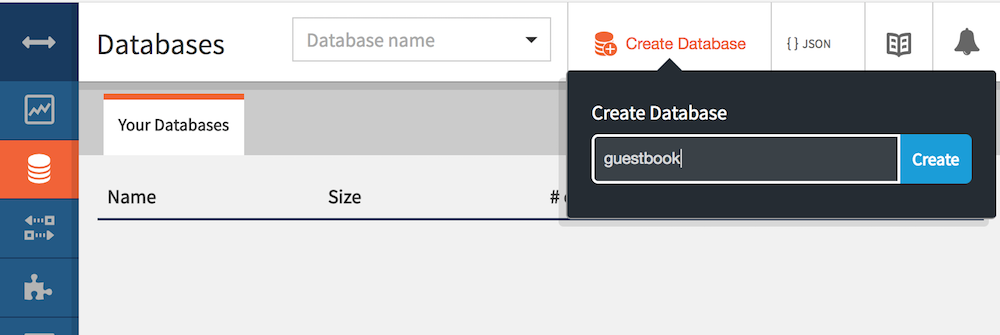
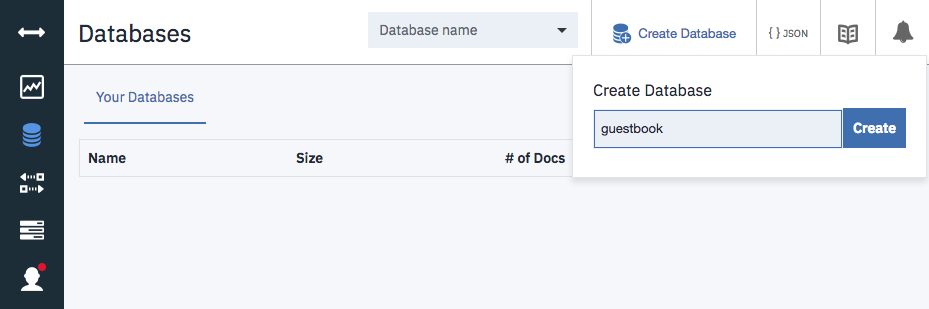
update steps to deal with Cloudant being IAM compatible now

diff --git a/serverless-api-webapp.md b/serverless-api-webapp.md
@@ -62,14 +62,17 @@ This guide uses GitHub Pages to host the static website. Make sure you have a pu
 
 Let's start by creating a {{site.data.keyword.cloudant_short_notm}}. {{site.data.keyword.cloudant_short_notm}} is a fully managed data layer designed for modern web and mobile applications that leverages a flexible JSON schema. {{site.data.keyword.cloudant_short_notm}} is built upon and compatible with Apache CouchDB and accessible through a secure HTTPS API, which scales as your application grows.
 
-![](images/solution8/Catalog_Cloudant.png)
-
-1. In the Catalog, under **Data & Analytics**, select **{{site.data.keyword.cloudant_short_notm}}**.
-2. Set the service name to **guestbook-db** and click **Create**.
-3. Under **Service Credentials**, create **New credential** and click **Add**.
-4. Click on **Manage** on the left and then **Launch** the {{site.data.keyword.cloudant_short_notm}} service console.
+1. In the Catalog, select **{{site.data.keyword.cloudant_short_notm}}**.
+2. Set the service name to **guestbook-db**, select **Use both legacy credentials and IAM** as authentication methods and click **Create**.
+4. Click on **Manage** on the left and then **Launch** the {{site.data.keyword.cloudant_short_notm}} service dashboard.
 5. Create a database named **guestbook**.
    ![](images/solution8/Create_Database.png)
+1. Under **Connections**,
+  1. Click **Create connection**
+  1. Select a Cloud Foundry organization and space where to create the serverless actions
+  1. Hover on the space and click **CONNECT**
+1. Go the [console](https://console.bluemix.net/dashboard/apps), select the service alias in the *Cloud Foundry Services* section
+3. Under **Service Credentials**, create **New credential** and click **Add**.
 
 ## Create serverless actions
 
@@ -83,12 +86,12 @@ You will create a **sequence** which is a chain of actions where output of one a
    * Create a document to be persisted.
    * Store the document in the {{site.data.keyword.cloudant_short_notm}} database.
 
-Start by creating the first action, adding the action to a sequence and then adding the second action to the sequence.
+Start by creating the first action:
 
 1. Switch to **Functions** https://console.bluemix.net/openwhisk.
 2. On the left pane, click on **Actions** and then **Create**.
 3. **Create Action** with name `prepare-entry-for-save` and select **Node.js 6** as the Runtime.
-4. Replace the existing code with the code snippet below and **Save**
+4. Replace the existing code with the code snippet below:
    ```js
    /**
     * Prepare the guestbook entry to be persisted
@@ -109,13 +112,20 @@ Start by creating the first action, adding the action to a sequence and then add
    }
    ```
    {: codeblock}
-5. Click on **Enclosing Sequences** and then **Add To Sequence**.
-6. For Action name, enter `save-guestbook-entry-sequence` and then click **Create and Add**.
-7. Click on **save-guestbook-entry-sequence** and then click **Add**.
-8. Select **Use Public**, **Cloudant** and then choose **create-document** under **Actions**
-9. Create **New Binding** and set name to `binding-for-guestbook`.
-10. Select the **guestbook-db** {{site.data.keyword.cloudant_short_notm}} instance and the **guestbook** database and **Add** and then **Save**.
-11. To test it, click on **Change Input** and enter the JSON below
+1. **Save**
+
+Then add the action to a sequence:
+
+1. Click on **Enclosing Sequences** and then **Add To Sequence**.
+1. For the sequence name, enter `save-guestbook-entry-sequence` and then click **Create and Add**.
+
+Finally add a second action to the sequence:
+
+1. Click on **save-guestbook-entry-sequence** and then click **Add**.
+1. Select **Use Public**, **Cloudant** and then choose **create-document** under **Actions**
+1. Create **New Binding** and set name to `binding-for-guestbook`.
+1. Select the **guestbook-db** {{site.data.keyword.cloudant_short_notm}} instance and the **guestbook** database and **Add** and then **Save**.
+1. To test it, click on **Change Input** and enter the JSON below
     ```json
     {
       "name": "John Smith",
@@ -124,7 +134,7 @@ Start by creating the first action, adding the action to a sequence and then add
     }
     ```
     {: codeblock}
-12. **Apply** and then **Invoke**.
+1. **Apply** and then **Invoke**.
     ![](images/solution8/Save_Entry_Invoke.png)
 
 ### Sequence of actions to retrieve entries
@@ -145,32 +155,40 @@ The second sequence is used to retrieve the existing guestbook entries. This seq
    }
    ```
    {: codeblock}
-3. Click on **Enclosing Sequences**, **Add to Sequence** and **Create New**
-4. Enter `read-guestbook-entries-sequence` for the **Action Name** and click **Create and Add**.
-5. Click on **read-guestbook-entries-sequence** sequence and then click **Add** to create and add the second action to get documents from Cloudant.
-6. Under **Use Public**, choose **{{site.data.keyword.cloudant_short_notm}}** and then **list-documents**
-7. Choose **binding-for-guestbook** and **Add** to create and add this public action to your sequence.
-8. Click **Add** again to create and add the third action which will format the documents from {{site.data.keyword.cloudant_short_notm}}.
-9. Under **Create New** enter `format-entries` for name and then click **Create and Add**.
-10. Click on **format-entries** and replace the code with below and **Save**
-  ```js
-  const md5 = require('spark-md5');
+1. **Save**
 
-  function main(params) {
-    return {
-      entries: params.rows.map((row) => { return {
-        name: row.doc.name,
-        email: row.doc.email,
-        comment: row.doc.comment,
-        createdAt: row.doc.createdAt,
-        icon: (row.doc.email ? `https://secure.gravatar.com/avatar/${md5.hash(row.doc.email.trim().toLowerCase())}?s=64` : null)
-      }})
-    };
-  }
-  ```
-  {: codeblock}
-11. Choose the sequence by clicking on **Actions** and then **read-guestbook-entries-sequence**.
-12. Click on **Save** and then **Invoke**. The output should look like the following:
+Add the action to a sequence:
+
+1. Click on **Enclosing Sequences**, **Add to Sequence** and **Create New**
+1. Enter `read-guestbook-entries-sequence` for the **Action Name** and click **Create and Add**.
+
+Complete the sequence:
+
+1. Click on **read-guestbook-entries-sequence** sequence and then click **Add** to create and add the second action to get documents from Cloudant.
+1. Under **Use Public**, choose **{{site.data.keyword.cloudant_short_notm}}** and then **list-documents**
+1. Choose **binding-for-guestbook** and **Add** to create and add this public action to your sequence.
+1. Click **Add** again to create and add the third action which will format the documents from {{site.data.keyword.cloudant_short_notm}}.
+1. Under **Create New** enter `format-entries` for name and then click **Create and Add**.
+1. Click on **format-entries** and replace the code with below:
+   ```js
+   const md5 = require('spark-md5');
+
+   function main(params) {
+     return {
+       entries: params.rows.map((row) => { return {
+         name: row.doc.name,
+         email: row.doc.email,
+         comment: row.doc.comment,
+         createdAt: row.doc.createdAt,
+         icon: (row.doc.email ? `https://secure.gravatar.com/avatar/${md5.hash(row.doc.email.trim().toLowerCase())}?s=64` : null)
+       }})
+     };
+   }
+   ```
+   {: codeblock}
+1. **Save**
+1. Choose the sequence by clicking on **Actions** and then **read-guestbook-entries-sequence**.
+1. Click on **Save** and then **Invoke**. The output should look like the following:
    ![](images/solution8/Read_Entries_Invoke.png)
 
 ## Create an API
